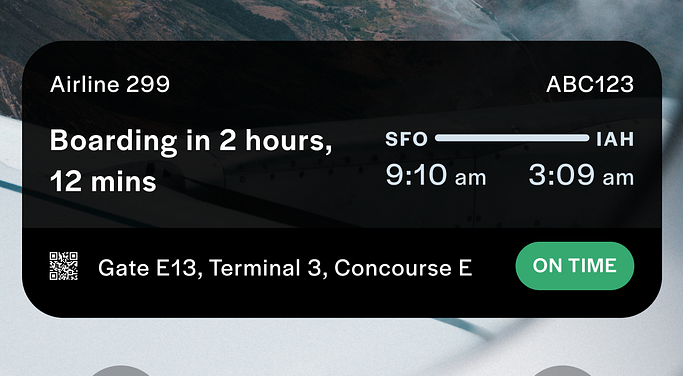
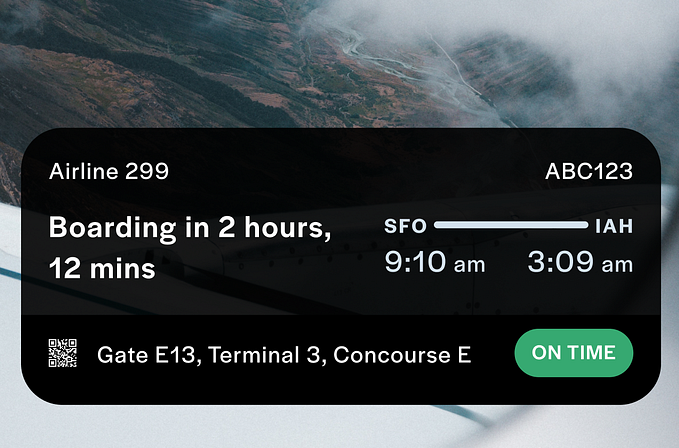
widget

diff --git a/trav.html b/trav.html
@@ -106,6 +106,9 @@
   padding: 0; /* Removed padding */
   width: calc(100% - 45px); /* Adjusting width to fit within the card */
   margin: 0 auto; /* Centering the image */
+  border: 1px solid var(--gray--secondary);
+    box-shadow: 0 1px 3px 0 var(--gray--secondary), 0 0 0 14px #f7f7f7, 0 0 0 15px var(--gray--secondary);
+    border-radius: 34px;
 }
 
 .overview-card h3 {
@@ -304,31 +307,12 @@
                 srcset="https://assets-global.website-files.com/65bf7d3d6bb1c09b8e01a7d0/65bf8eef7e4ae2e81d92feb9_overview-mobile-p-500.webp 500w, https://assets-global.website-files.com/65bf7d3d6bb1c09b8e01a7d0/65bf8eef7e4ae2e81d92feb9_overview-mobile.webp 684w"
                 alt="" class="overview-image-mobile">
             </div>-->
-            <div id="w-node-_8ba73dfb-a57f-13a8-81f4-7a7dffd1c43a-8e01a7e0" class="overview-card">
-              <h3 class="heading-medium">Foto</h3>
-              <p><span style="font-size:16px;color:gray">I luoghi del tuo viaggio, da conservare e
-                  condividere</span></p>
-              <img src="./files/gallery.webp" loading="lazy" alt="Gallery">
-            </div>
-            
-            <div id="w-node-_8ba73dfb-a57f-13a8-81f4-7a7dffd1c43a-8e01a7e0" class="overview-card">
-              <h3 class="heading-medium">Mappa</h3>
-              <p><span style="font-size:16px;color:gray">Tutte la tappe da visitare e come arrivarci</span></p>
-              <img src="./files/map.jpeg" loading="lazy" alt="">
-            </div>
-
+           
             <div id="w-node-_8ba73dfb-a57f-13a8-81f4-7a7dffd1c43a-8e01a7e0" class="overview-card">
               <h3 class="heading-medium">Itinerario</h3>
               <p><span style="font-size:16px;color:gray">Tutte le attività da fare, organizzate giorno per giorno<!--Visually Organized, step by step, km fatti
                   ecc.--></span></p>
               <img src="./files/itin.png" loading="lazy" alt="">
-            </div>
-
-            <div id="w-node-_8ba73dfb-a57f-13a8-81f4-7a7dffd1c43a-8e01a7e0" class="overview-card">
-              <h3 class="heading-medium">Meteo</h3>
-              <p><span style="font-size:16px;color:gray">Avvisi e previsioni meteo, prima e durante il viaggio</span></p>
-              <img src="./files/meteo.webp" loading="lazy"
-                alt="">
             </div>
 
             <div id="w-node-_8ba73dfb-a57f-13a8-81f4-7a7dffd1c43a-8e01a7e0" class="overview-card">
@@ -338,6 +322,27 @@
               <img src="./files/doc.png" loading="lazy"
                 alt="">
             </div>
+            <div id="w-node-_8ba73dfb-a57f-13a8-81f4-7a7dffd1c43a-8e01a7e0" class="overview-card">
+              <h3 class="heading-medium">Mappa</h3>
+              <p><span style="font-size:16px;color:gray">Tutte la tappe da visitare e come arrivarci</span></p>
+              <img src="./files/map.jpeg" loading="lazy" alt="">
+            </div>
+
+            <div id="w-node-_8ba73dfb-a57f-13a8-81f4-7a7dffd1c43a-8e01a7e0" class="overview-card">
+              <h3 class="heading-medium">Foto</h3>
+              <p><span style="font-size:16px;color:gray">I luoghi del tuo viaggio, da conservare e
+                  condividere</span></p>
+              <img src="./files/gallery.webp" loading="lazy" alt="Gallery">
+            </div>
+
+            <div id="w-node-_8ba73dfb-a57f-13a8-81f4-7a7dffd1c43a-8e01a7e0" class="overview-card">
+              <h3 class="heading-medium">Meteo</h3>
+              <p><span style="font-size:16px;color:gray">Avvisi e previsioni meteo, prima e durante il viaggio</span></p>
+              <img src="./files/meteo.webp" loading="lazy"
+                alt="">
+            </div>
+
+            
 
             <div id="w-node-_8ba73dfb-a57f-13a8-81f4-7a7dffd1c43a-8e01a7e0" class="overview-card">
               <h3 class="heading-medium">Cose da portare</h3>
